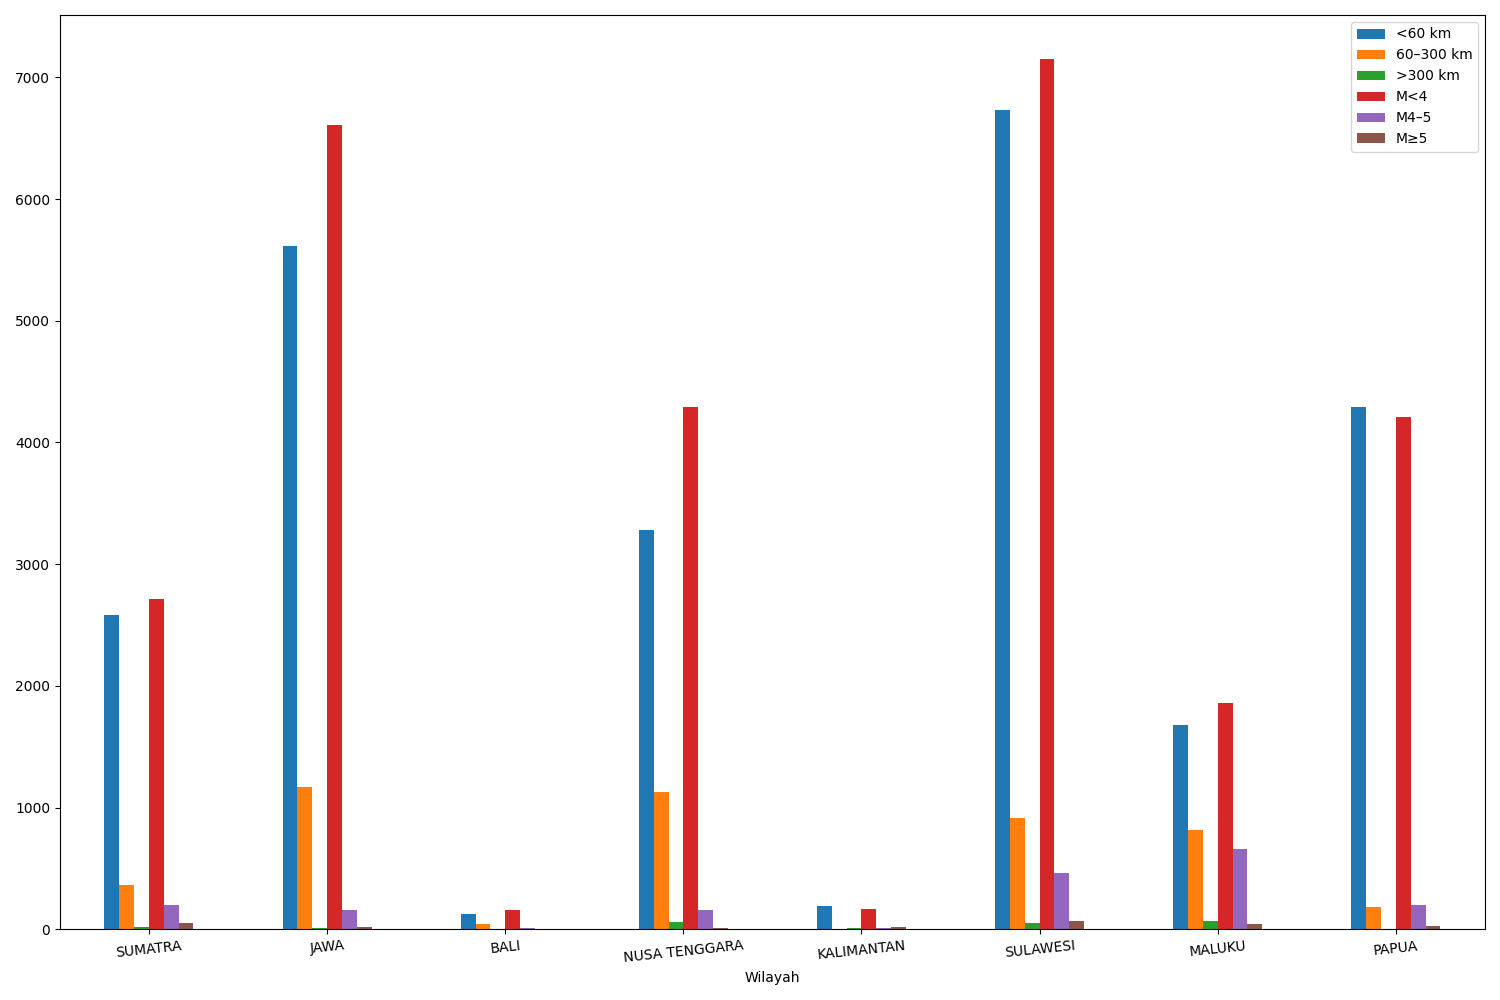
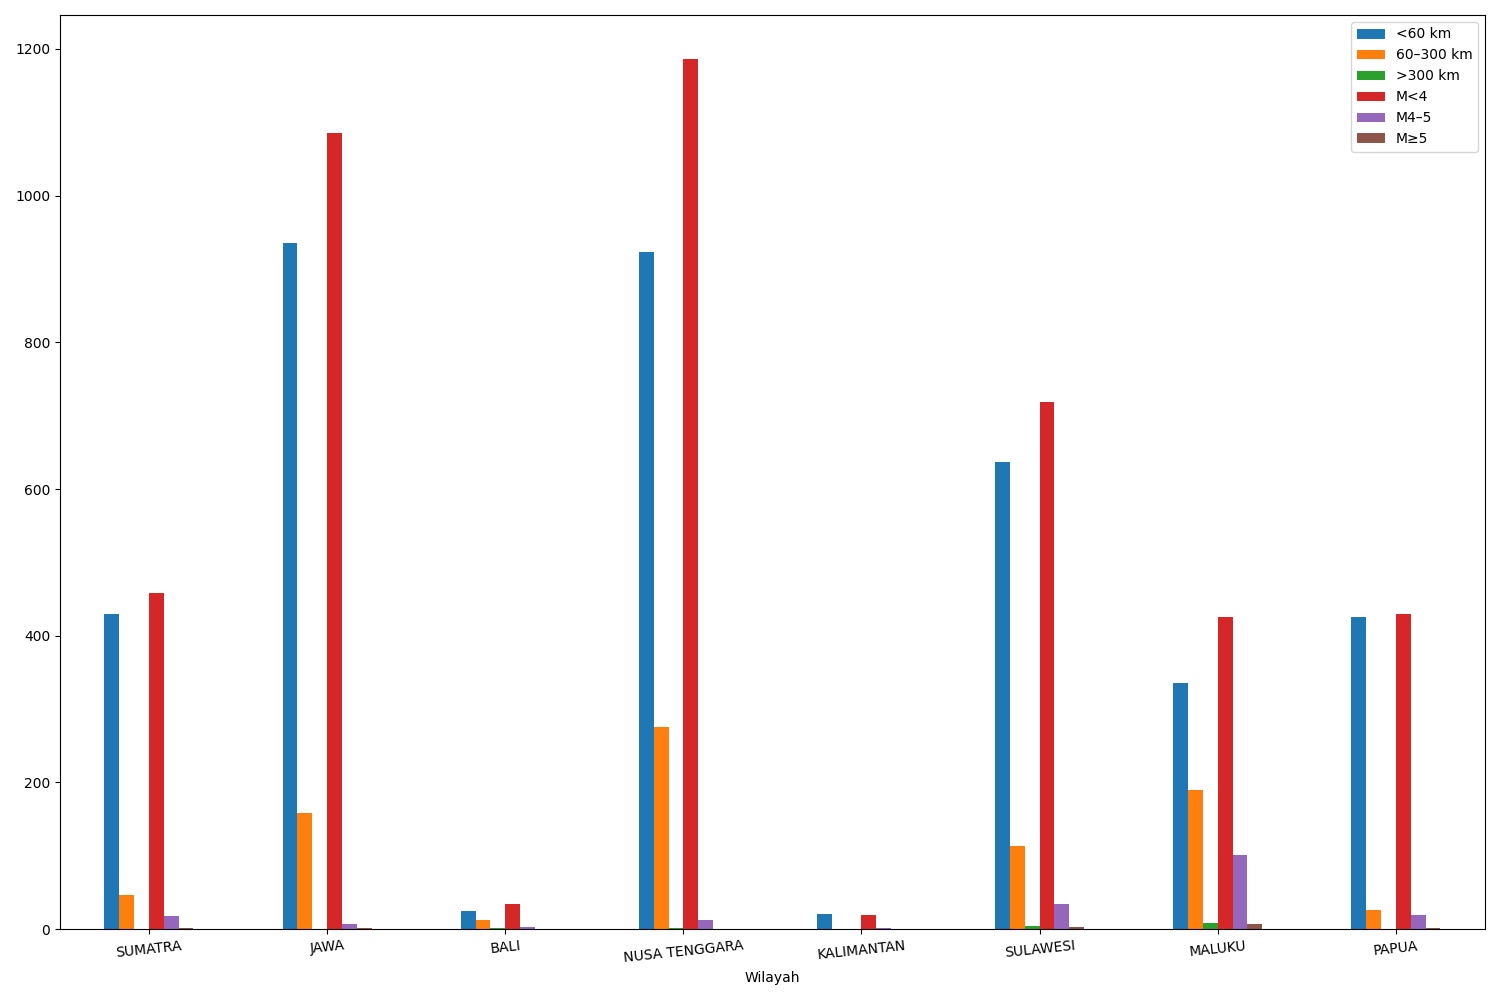
Added support for alternative table format

diff --git a/pages/9_EQ_Katalog-Integrasi_Monev.py b/pages/9_EQ_Katalog-Integrasi_Monev.py
@@ -27,7 +27,16 @@ if fil_upl is not None:
     if "LAT_FIX" in dtf.columns and "LON_FIX" in dtf.columns:
         dtf.rename(columns={"LAT_FIX": "LAT", "LON_FIX": "LON"}, inplace=True)
     elif "Latitude" in dtf.columns and "Longitude" in dtf.columns:
-        dtf.rename(columns={"Latitude": "LAT", "Longitude": "LON", "Date": "DATETIME"}, inplace=True)
+        dtf = dtf.iloc[:, [0, 1, 2, 6, 3, 4, 5, 9, 7, 8]]
+        dtf.rename(columns={
+            "#EventID": "Event ID",
+            "Latitude": "LAT",
+            "Longitude": "LON",
+            "Date": "DATETIME",
+            "Depth (km)": "DEPTH",
+            "Magnitude": "MAG",
+            "Event Location Name": "REGION"
+        }, inplace=True)
         dtf["DATETIME"] = pd.to_datetime(dtf["DATETIME"]) + pd.to_timedelta(dtf['Time (UTC)'].astype(str))
         dtf.drop(["Time (UTC)"], axis=1, inplace=True)
     st.success("File uploaded and data loaded successfully!")
